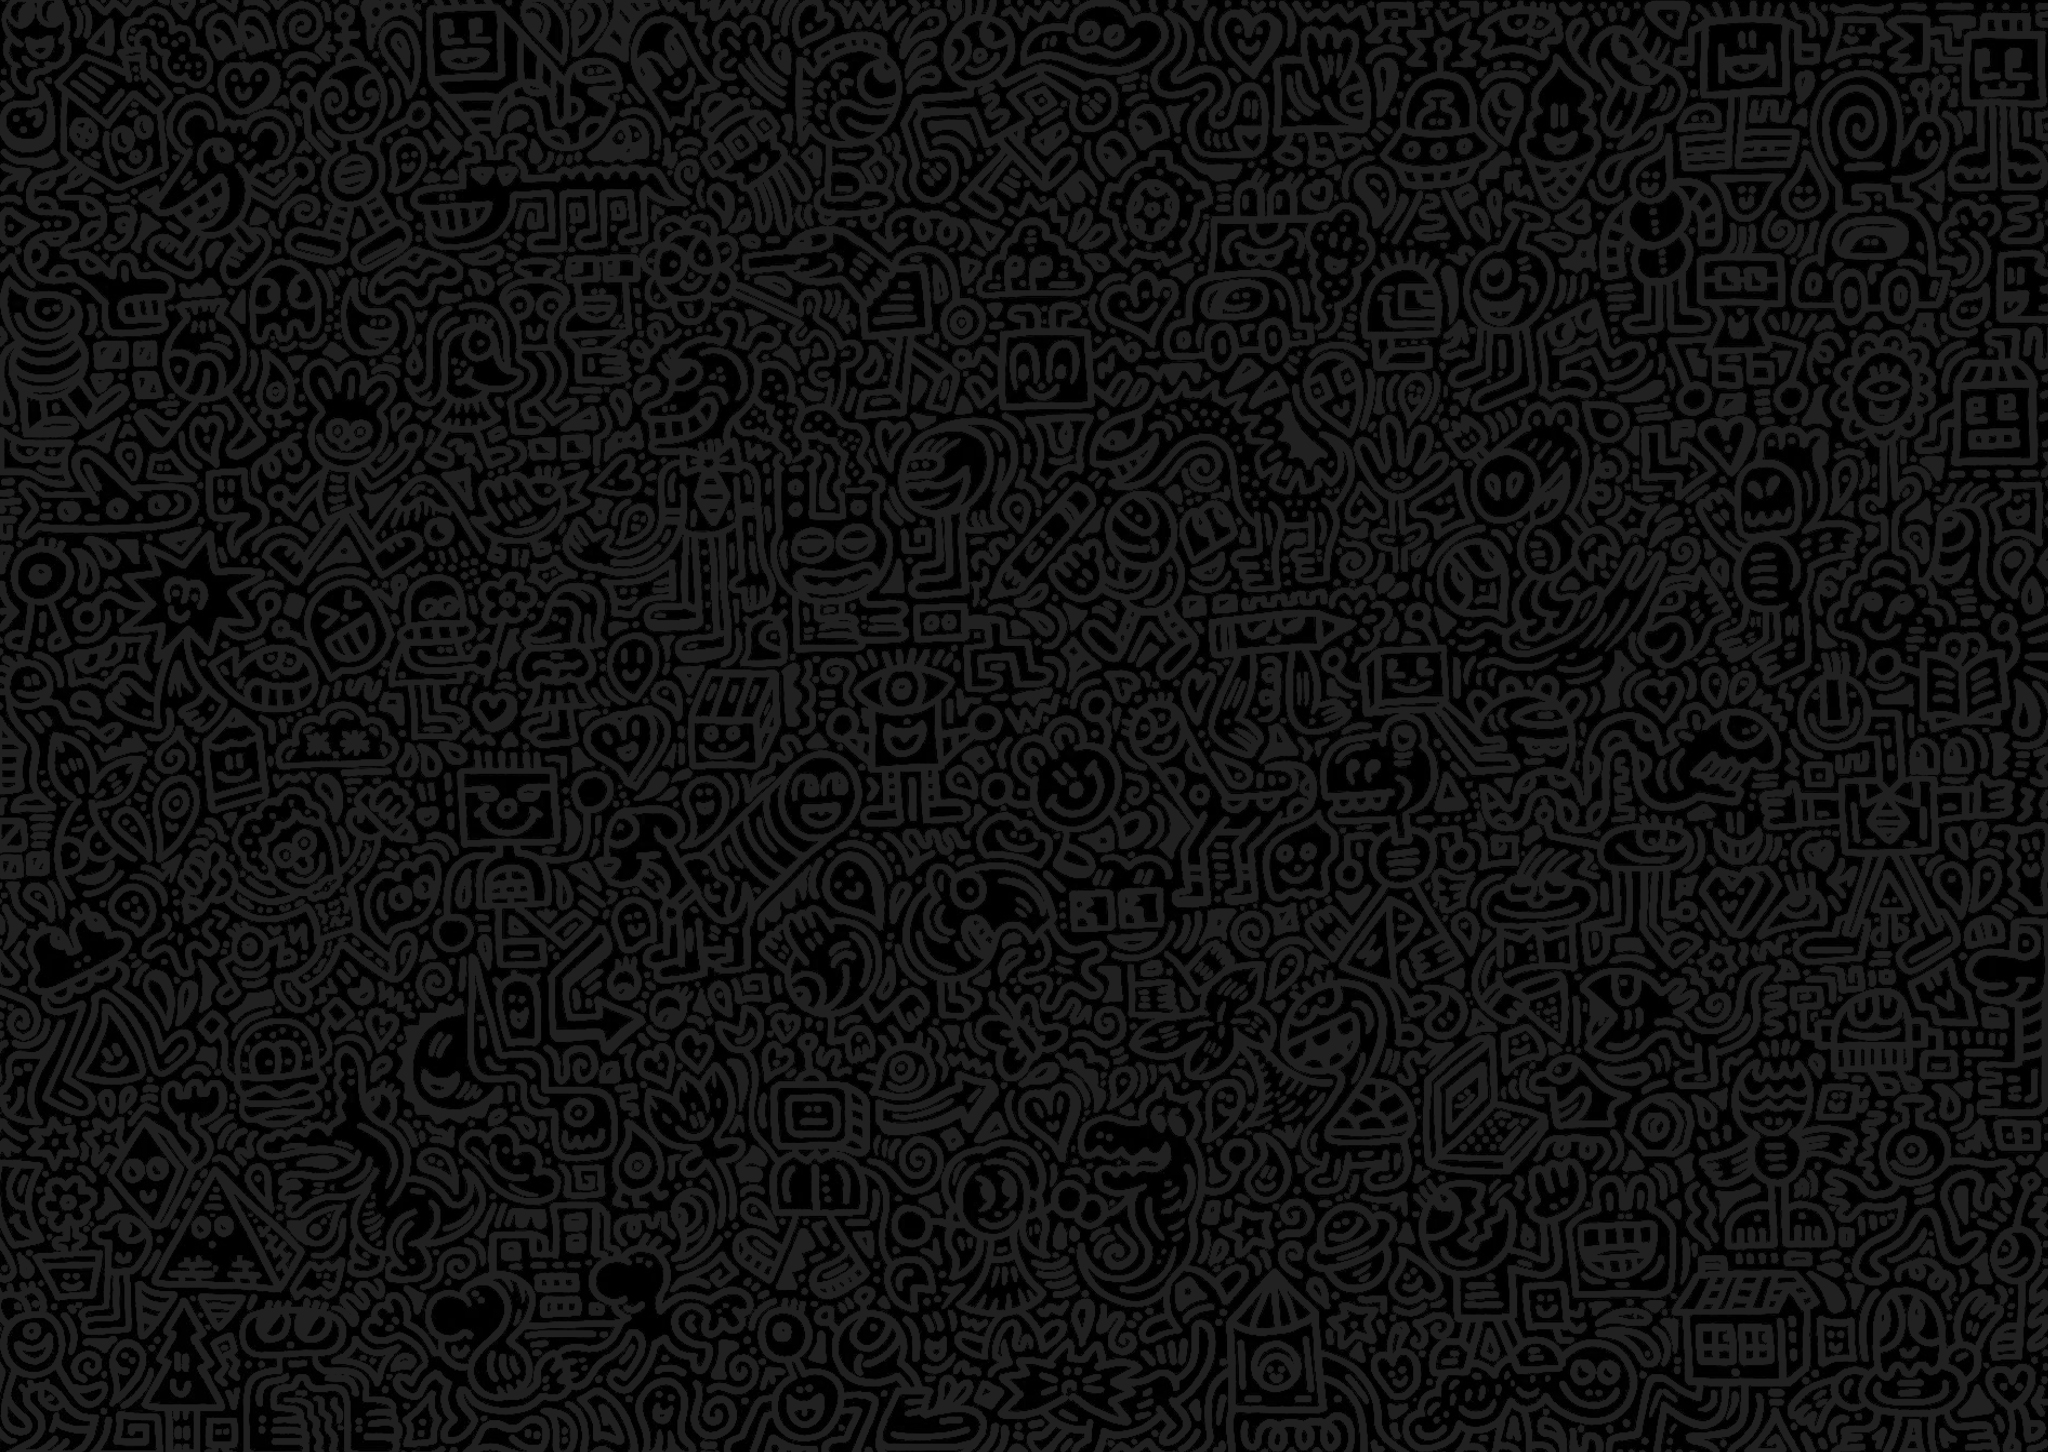
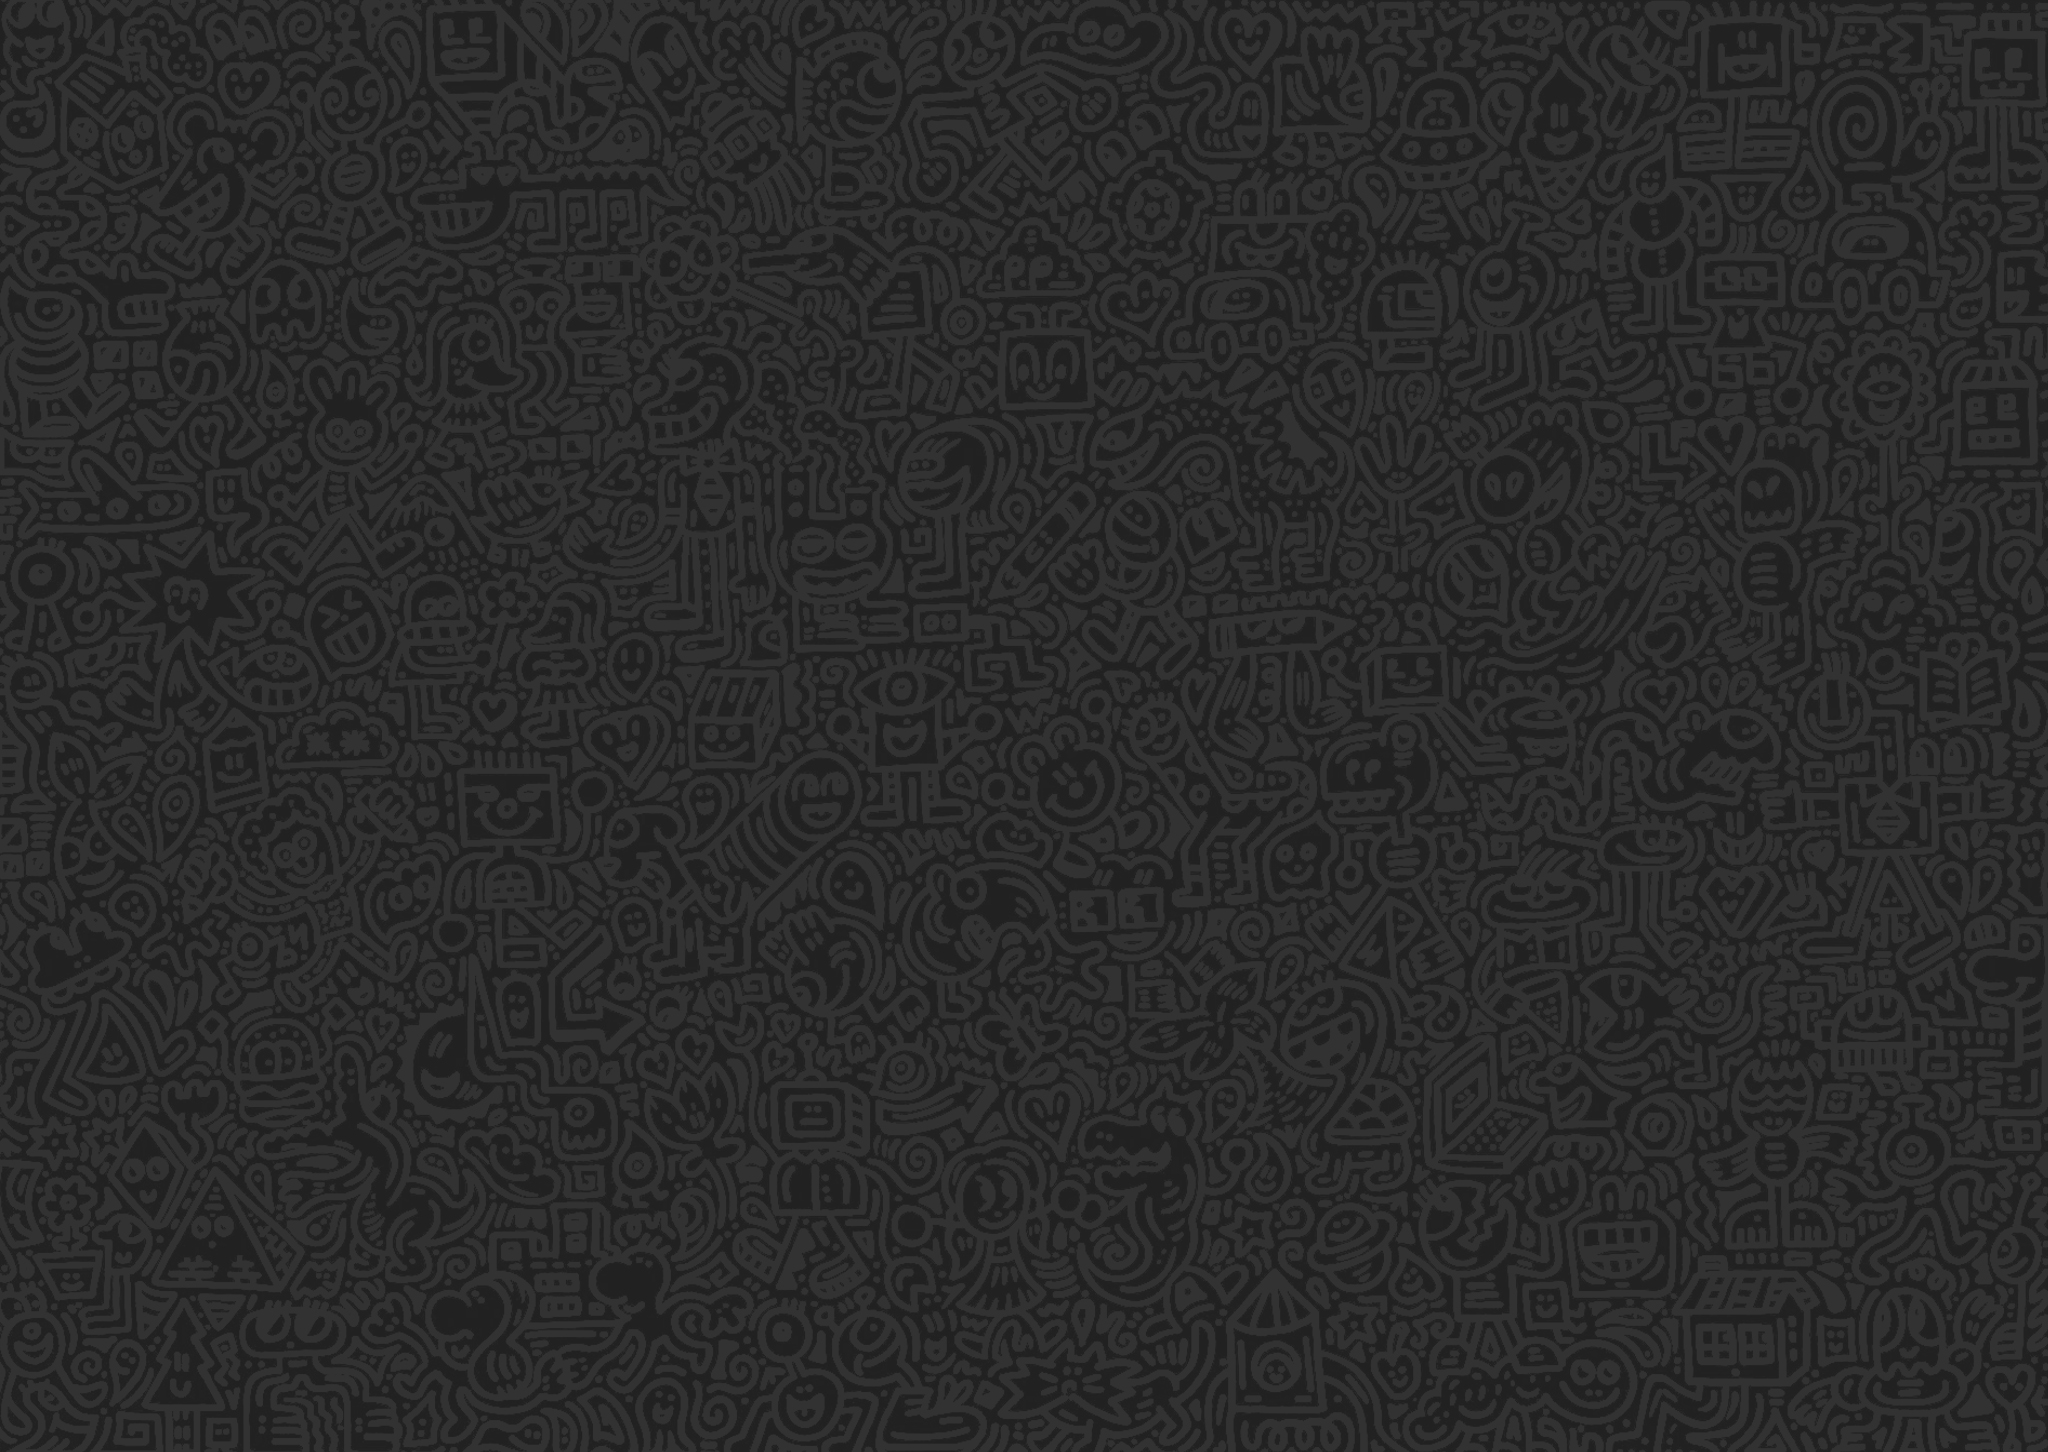
transparent app bar implemented

diff --git a/lib/pages/home_page.dart b/lib/pages/home_page.dart
@@ -9,6 +9,7 @@ import 'package:the_wall/components/wall_post.dart';
 import 'package:the_wall/components/wall_post_header.dart';
 import 'package:the_wall/components/wall_post_picture.dart';
 import 'package:the_wall/pages/image_visualizer_page.dart';
+import '../components/blurred_appbar.dart';
 import '../components/drawer_navigation.dart';
 
 class HomePage extends StatefulWidget {
@@ -60,10 +61,11 @@ class _HomePageState extends State<HomePage> {
     final GlobalKey<ScaffoldState> scaffoldKey = GlobalKey<ScaffoldState>();
 
     return Scaffold(
+      extendBodyBehindAppBar: true,
       key: scaffoldKey,
       drawer: const DrawerNavigation(),
       endDrawer: const DrawerConversations(),
-      appBar: AppBar(
+      appBar: BlurredAppBar(
         title: const Text('T H E  W A L L'),
         actions: [
           IconButton(

diff --git a/lib/pages/conversation_page.dart b/lib/pages/conversation_page.dart
@@ -2,6 +2,7 @@ import 'dart:typed_data';
 import 'package:cloud_firestore/cloud_firestore.dart';
 import 'package:firebase_auth/firebase_auth.dart';
 import 'package:flutter/material.dart';
+import 'package:the_wall/components/blurred_appbar.dart';
 import 'package:the_wall/components/drawer_conversation.dart';
 import 'package:the_wall/components/input_field.dart';
 import 'package:the_wall/util/timestamp_to_string.dart';
@@ -91,7 +92,8 @@ class _ConversationPageState extends State<ConversationPage> {
     return Scaffold(
       key: scaffoldKey,
       endDrawer: const DrawerConversations(),
-      appBar: AppBar(
+      extendBodyBehindAppBar: true,
+      appBar: BlurredAppBar(
         centerTitle: false,
         title: widget.talkingTo,
         actions: [

diff --git a/lib/components/blurred_appbar.dart b/lib/components/blurred_appbar.dart
@@ -1,0 +1,33 @@
+import 'dart:ui';
+
+import 'package:flutter/material.dart';
+
+class BlurredAppBar extends StatelessWidget implements PreferredSizeWidget {
+  const BlurredAppBar({
+    super.key,
+    this.title,
+    this.centerTitle,
+    this.actions,
+  });
+
+  final Widget? title;
+  final List<Widget>? actions;
+  final bool? centerTitle;
+
+  @override
+  Size get preferredSize => const Size.fromHeight(56);
+
+  @override
+  Widget build(BuildContext context) {
+    return ClipRect(
+      child: BackdropFilter(
+        filter: ImageFilter.blur(sigmaX: 20, sigmaY: 15),
+        child: AppBar(
+          centerTitle: centerTitle,
+          title: title,
+          actions: actions,
+        ),
+      ),
+    );
+  }
+}
